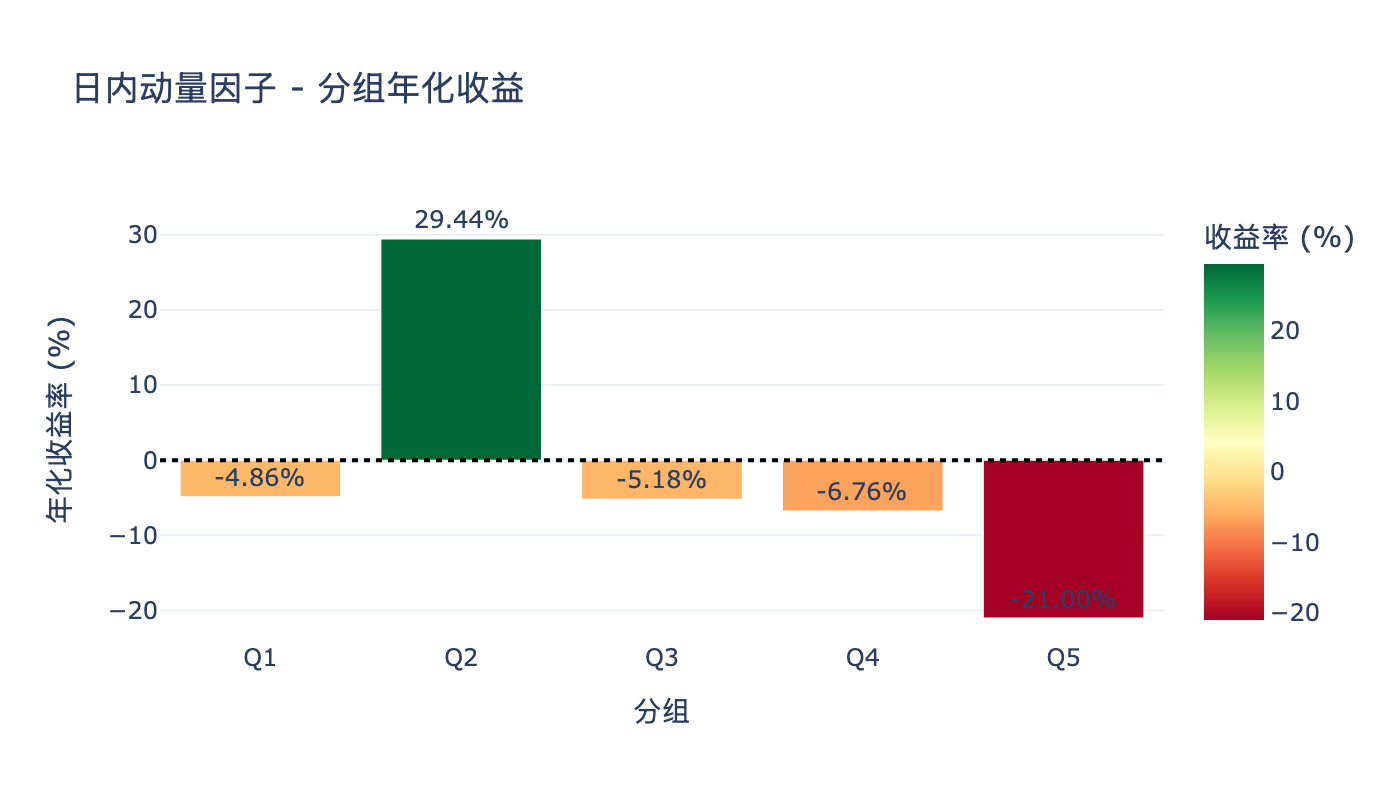
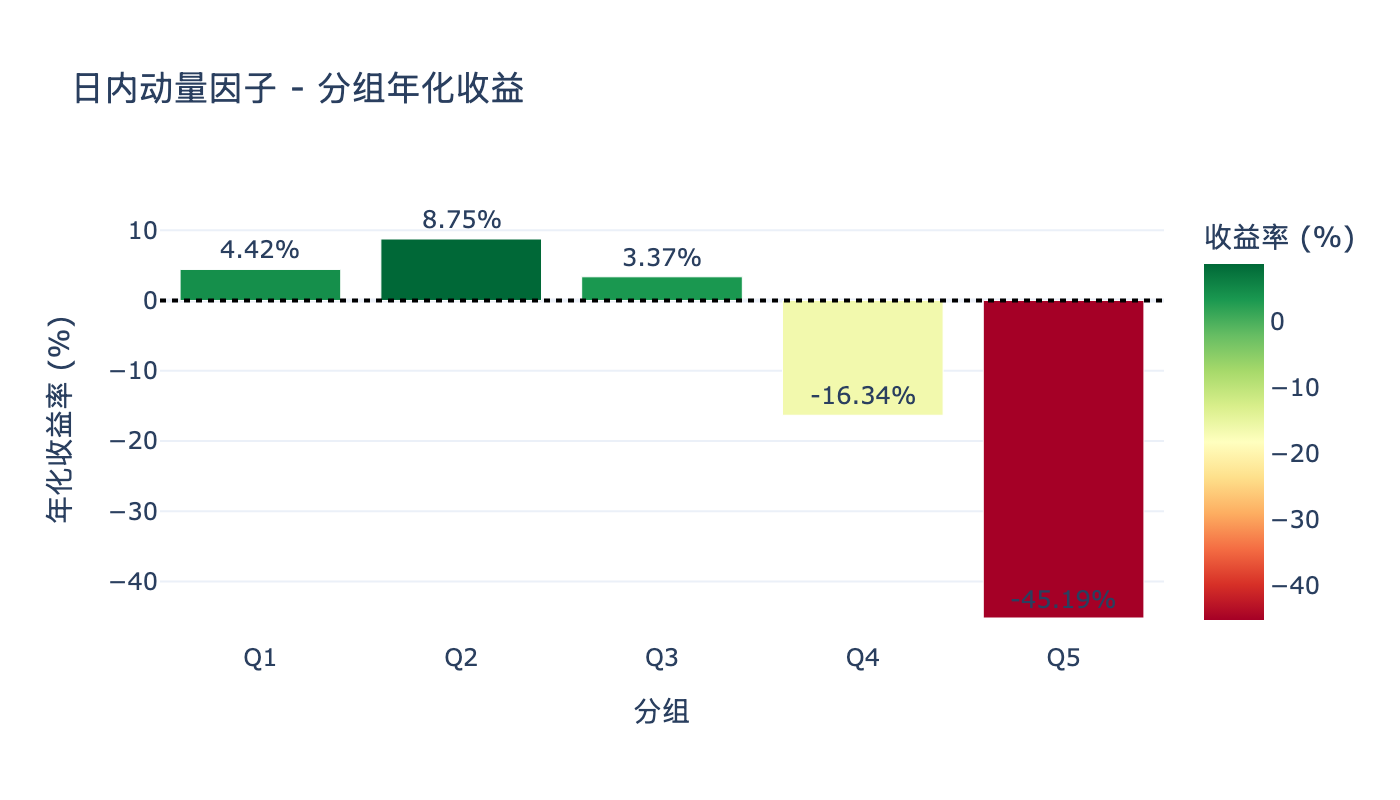
docs: 添加因子计算逻辑差异分析 plan

diff --git a/examples/gen_intraday_momentum_report.py b/examples/gen_intraday_momentum_report.py
@@ -24,9 +24,9 @@ OUTPUT_DIR = '/Users/xinzhan/.openclaw/workspace/quant_factor_system/output'
 os.makedirs(OUTPUT_DIR, exist_ok=True)
 
 
-def get_daily_data(n_stocks: int = 200, n_days: int = 500):
-    """从数据库获取日线数据"""
-    print("📊 从数据库获取日线数据...")
+def get_daily_data():
+    """从数据库获取全量日线数据 (2015-至今)"""
+    print("📊 从数据库获取全量日线数据 (2015-2024)...")
     
     conn = psycopg2.connect(
         host='localhost',
@@ -38,30 +38,23 @@ def get_daily_data(n_stocks: int = 200, n_days: int = 500):
     cursor = conn.cursor()
     
     try:
-        # 获取股票列表
-        cursor.execute("""
-            SELECT DISTINCT symbol 
-            FROM price_daily 
-            ORDER BY symbol 
-            LIMIT %s
-        """, (n_stocks,))
+        # 获取所有股票
+        cursor.execute("SELECT DISTINCT symbol FROM price_daily ORDER BY symbol")
         stocks = [row[0] for row in cursor.fetchall()]
-        print(f"   获取到 {len(stocks)} 只股票")
+        print(f"   股票数量: {len(stocks)}")
         
-        # 获取日期范围
-        cursor.execute("SELECT MAX(time) FROM price_daily")
-        end_date = cursor.fetchone()[0]
-        start_date = end_date - timedelta(days=n_days)
+        # 获取日期范围 (2015-01-01 至今)
+        start_date = '2015-01-01'
+        end_date = '2024-12-31'
         
-        # 获取日线数据
+        # 获取全量日线数据
         cursor.execute("""
             SELECT symbol, time, open, high, low, close, volume
             FROM price_daily 
-            WHERE symbol IN %s 
-            AND time >= %s 
+            WHERE time >= %s 
             AND time <= %s
             ORDER BY symbol, time
-        """, (tuple(stocks), start_date, end_date))
+        """, (start_date, end_date))
         
         data = cursor.fetchall()
         print(f"   获取到 {len(data):,} 条日线数据")
@@ -382,7 +375,7 @@ def compute_and_analyze():
     print("="*60)
     
     # 1. 获取数据
-    price_df = get_daily_data(n_stocks=200, n_days=500)
+    price_df = get_daily_data()
     
     # 2. 计算因子
     factor_df, price_factor_df = compute_intraday_momentum_factor(price_df)

diff --git a/docs/plan/2026-02-26/factor_calculation_diff_plan.md b/docs/plan/2026-02-26/factor_calculation_diff_plan.md
@@ -1,0 +1,63 @@
+# 因子计算逻辑差异分析 Plan
+
+## 📌 问题
+
+之前的因子表现（25号生成的图片）和现在用新脚本计算的结果差异很大：
+- **之前**：IC较高，累计收益曲线看起来正常
+- **现在**：IC接近0，分组收益反向
+
+## ✅ 需要分析的内容
+
+### 1. 收益率计算方式差异
+- [ ] **旧逻辑**：`close.pct_change().shift(-1)` - 按日期计算当日收益率
+- [ ] **新逻辑**：`groupby('symbol').pct_change().shift(-1)` - 按股票分组计算T+1收益率
+
+### 2. 数据范围差异
+- [ ] 旧脚本：可能只用了部分数据（如2023年）
+- [ ] 新脚本：2015-2024全量数据
+
+### 3. 分组逻辑差异
+- [ ] 检查旧的分组逻辑是否正确
+
+---
+
+## 🔍 关键差异分析
+
+### 收益率计算
+
+**旧代码** (factor_report.py):
+```python
+future_return = close.pct_change().shift(-1)
+```
+
+**新代码** (gen_intraday_momentum_report.py):
+```python
+merged['future_return'] = merged.groupby('symbol')['close'].pct_change().shift(-1)
+```
+
+**问题**：旧代码没有按股票分组，会导致：
+- 跨股票的收益率计算错误
+- 可能计算出的是"当日收益"而非"次日收益"
+
+### T+1 收益 vs 当日收益
+
+根据 MEMORY.md 中的记录（2026-02-22）：
+> **所有因子评估必须使用 T+1 收益**
+
+正确的计算方式应该是：
+```python
+# T+1 收益：今天买入，明天卖出的收益
+merged['return_1d'] = df.groupby(level='symbol')['close'].pct_change(1).shift(-1)
+```
+
+---
+
+## 📋 验证任务
+
+- [ ] 任务1：用旧逻辑重新计算，对比结果
+- [ ] 任务2：确认差异来源
+- [ ] 任务3：确定正确的计算逻辑
+
+---
+
+*Plan created: 2026-02-26*
